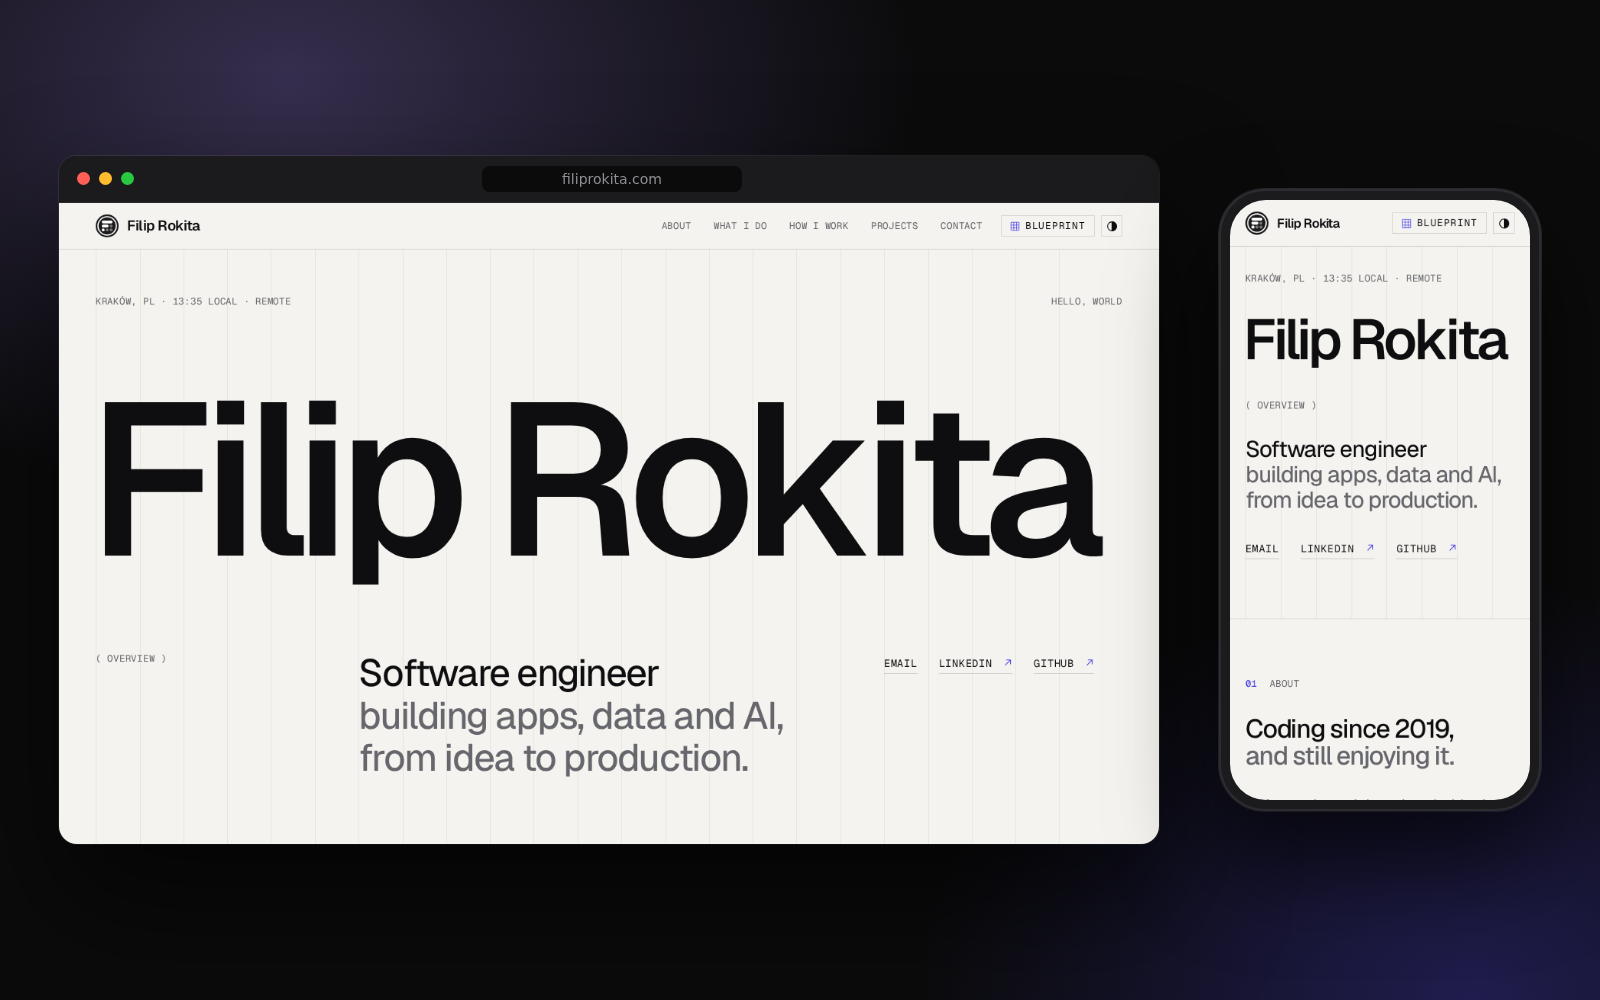
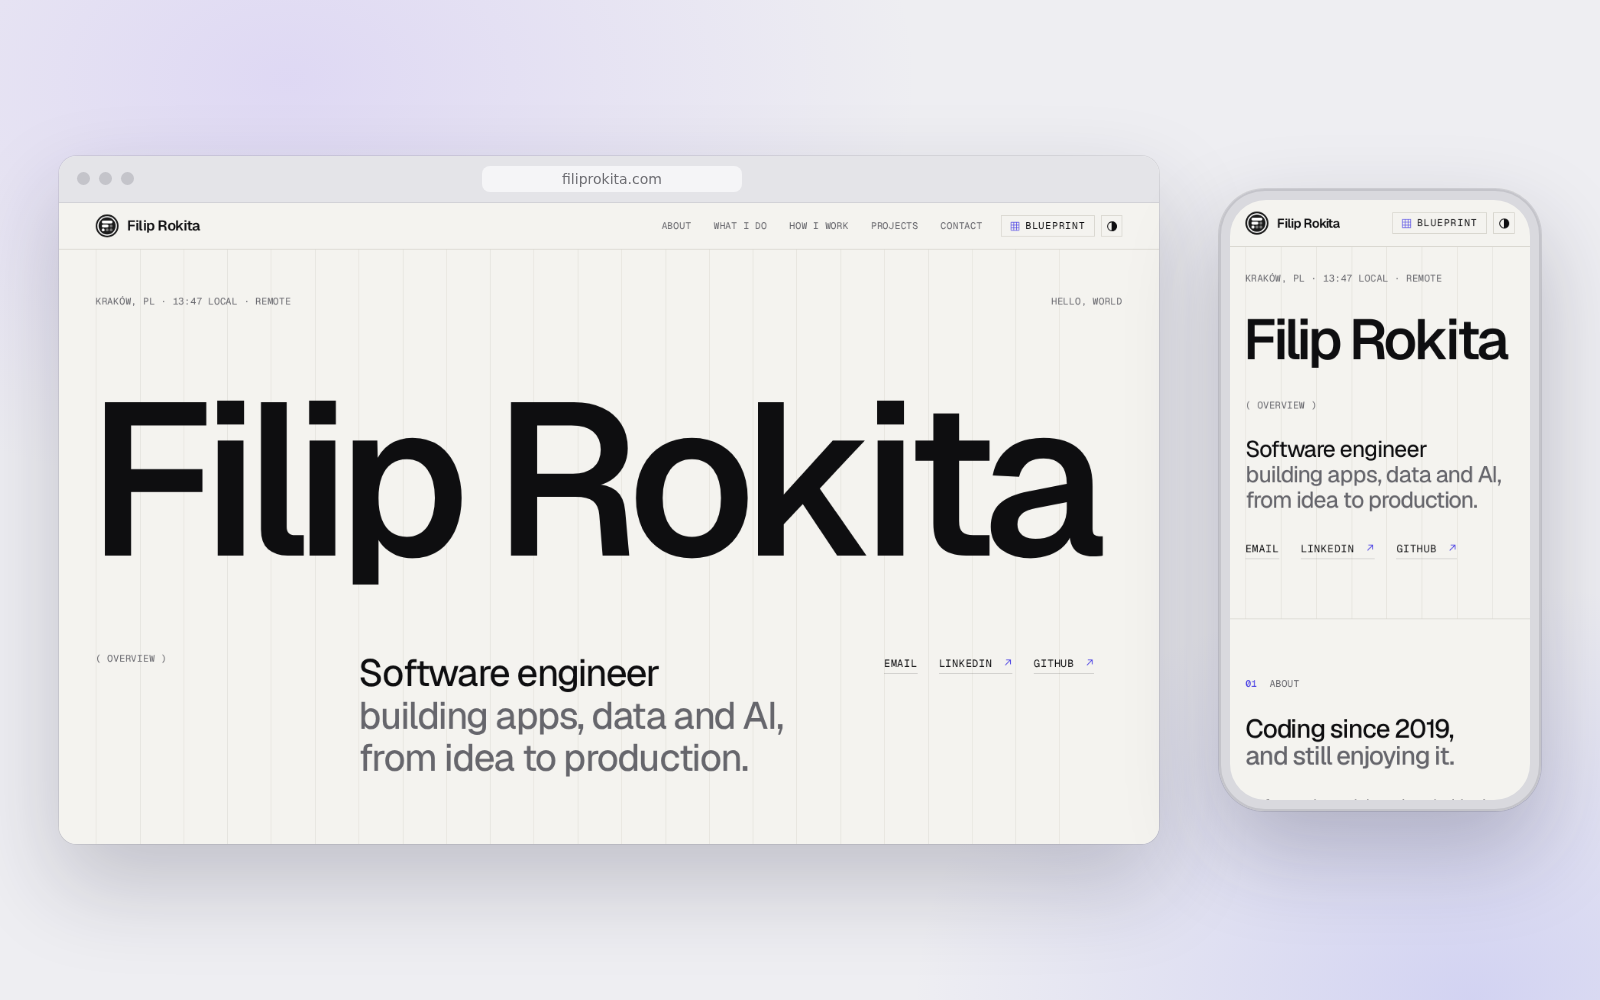
Light README stage and a bottom strip for Safari's bar in blueprint mode (#30)
* Light stage for the light README screenshot

* Blueprint: a fixed strip at the bottom edge for Safari's bar color

Safari on iOS 26 ignores theme-color and takes its bar color from a fixed element at the edge of the screen. A strip of the sheet's color keeps the bar steady while scrolling and after the drawer closes.

* Blueprint mode is always dark and gives the visitor's theme back when it ends

* Theme toggle label follows the theme attribute; keep an unsaved theme choice through blueprint mode

* Blueprint sheet keeps its size when Safari's address bar moves; navy fills the exposed bottom

diff --git a/src/blueprint/sheet.ts b/src/blueprint/sheet.ts
@@ -139,7 +139,9 @@ function titleBlock() {
 /** The sheet border with its lettered and numbered zones. */
 function drawFrame(frame: SVGSVGElement) {
   const width = innerWidth;
-  const height = innerHeight;
+  // The sheet is as tall as the small viewport (address bar shown), so it keeps its size when
+  // Safari's bars come and go. CSS gives the frame that height.
+  const height = frame.getBoundingClientRect().height;
   const columns = Math.max(4, Math.round(width / ZONE));
   const rows = Math.max(3, Math.round(height / ZONE));
   frame.setAttribute('viewBox', `0 0 ${width} ${height}`);
@@ -222,9 +224,22 @@ export function mountSheet(signal: AbortSignal) {
     focusable: 'false',
   });
   const title = titleBlock();
-  document.body.append(frame, title);
+  // A fixed strip of the sheet's color at the bottom edge. Safari on iPhone paints its bars from
+  // such an element, so the bar stays one color whatever scrolls or opens above it.
+  const strip = document.createElement('div');
+  strip.className = 'bp-edge';
+  strip.setAttribute('data-blueprint-ui', '');
+  strip.setAttribute('aria-hidden', 'true');
+  document.body.append(strip, frame, title);
 
-  const draw = () => drawFrame(frame);
+  // The sheet is drawn again only when its own size changed, not when the address bar moves.
+  let size = '';
+  const draw = () => {
+    const next = `${innerWidth}x${frame.getBoundingClientRect().height}`;
+    if (next === size) return;
+    size = next;
+    drawFrame(frame);
+  };
   const compact = () => {
     title.toggleAttribute('data-compact', scrollY > COMPACT_AFTER);
     const left =
@@ -239,6 +254,7 @@ export function mountSheet(signal: AbortSignal) {
   signal.addEventListener(
     'abort',
     () => {
+      strip.remove();
       frame.remove();
       title.remove();
     },

diff --git a/e2e/blueprint.spec.ts b/e2e/blueprint.spec.ts
@@ -86,6 +86,28 @@ test.describe('blueprint mode', () => {
     await expect.poll(colors).not.toContain('#0a3577');
   });
 
+  test('the mode is dark and gives the visitor theme back when it is off', async ({
+    page,
+  }) => {
+    await page.emulateMedia({ colorScheme: 'light' });
+    await page.goto('/');
+    const html = page.locator('html');
+    await expect(html).not.toHaveAttribute('data-theme');
+    await toggleBlueprint(page);
+    await expect(html).toHaveAttribute('data-theme', 'dark');
+    // Nothing is saved while the mode forces dark.
+    expect(await page.evaluate(() => localStorage.getItem('theme'))).toBeNull();
+    await toggleBlueprint(page);
+    await expect(html).not.toHaveAttribute('data-theme');
+
+    await page.evaluate(() => localStorage.setItem('theme', 'light'));
+    await page.reload();
+    await toggleBlueprint(page);
+    await expect(html).toHaveAttribute('data-theme', 'dark');
+    await toggleBlueprint(page);
+    await expect(html).toHaveAttribute('data-theme', 'light');
+  });
+
   test('the drawing is not drawn again when only the height of the window changes', async ({
     page,
   }, testInfo) => {
@@ -140,6 +162,7 @@ test.describe('blueprint mode', () => {
     await expect(page.locator('.bp-frame')).toBeVisible();
     await expect(page.locator('.bp-title')).toBeVisible();
     await expect(page.locator('.bp-title')).toContainText('Filip Rokita');
+    await expect(page.locator('.bp-edge')).toHaveCount(1);
     await expect(page.locator('.bp-layer')).toHaveCount(1);
 
     await toggleBlueprint(page);

diff --git a/design/preview.html b/design/preview.html
@@ -96,9 +96,48 @@
         width: 100%;
         border-radius: 36px;
       }
+      /* The light variant: a light stage and light window chrome. */
+      body.light {
+        background:
+          radial-gradient(
+            900px 600px at 18% 8%,
+            rgba(167, 139, 250, 0.22),
+            transparent 70%
+          ),
+          radial-gradient(
+            800px 600px at 92% 100%,
+            rgba(99, 102, 241, 0.2),
+            transparent 70%
+          ),
+          #eeeef2;
+      }
+      .light .window {
+        background: #f5f5f7;
+        box-shadow:
+          0 40px 90px rgba(30, 30, 60, 0.22),
+          0 0 0 1px rgba(0, 0, 0, 0.08);
+      }
+      .light .bar {
+        background: #e4e4e8;
+        border-bottom-color: #d2d2d7;
+      }
+      .light .bar i {
+        background: #c4c4ca;
+      }
+      .light .url {
+        background: #f5f5f7;
+        color: #6e6e73;
+      }
+      .light .phone {
+        background: #d9d9de;
+        box-shadow:
+          0 40px 90px rgba(30, 30, 60, 0.25),
+          0 0 0 1px rgba(0, 0, 0, 0.1),
+          inset 0 0 0 2px #c4c4ca;
+      }
     </style>
   </head>
-  <body>
+  <body class="{{SCHEME}}">
     <div class="window">
       <div class="bar">
         <i></i><i></i><i></i><span class="url">filiprokita.com</span>

diff --git a/src/blueprint/dark.ts b/src/blueprint/dark.ts
@@ -1,0 +1,37 @@
+/**
+ * Blueprint mode is always dark, whatever the visitor uses. The theme attribute is set to dark for
+ * the session only and nothing is saved, so when the mode ends (or the page is reloaded) the
+ * visitor's own theme is back: the saved choice, or the system one when there is none.
+ */
+const root = document.documentElement;
+
+type Theme = 'light' | 'dark';
+
+const saved = (): Theme | null => {
+  try {
+    const theme = localStorage.getItem('theme');
+    return theme === 'light' || theme === 'dark' ? theme : null;
+  } catch {
+    return null;
+  }
+};
+
+/** The theme the visitor has, which is not always the one on the page while the mode is on. */
+export const visitorTheme = (): Theme =>
+  saved() ??
+  (matchMedia('(prefers-color-scheme: light)').matches ? 'light' : 'dark');
+
+export function lockDark(signal: AbortSignal) {
+  // Kept for when storage is blocked: then the theme on the page is all there is.
+  const before = root.dataset.theme;
+  root.dataset.theme = 'dark';
+  signal.addEventListener(
+    'abort',
+    () => {
+      const theme = saved() ?? before;
+      if (theme) root.dataset.theme = theme;
+      else delete root.dataset.theme;
+    },
+    { once: true },
+  );
+}

diff --git a/src/styles/blueprint.css b/src/styles/blueprint.css
@@ -169,10 +169,25 @@
 
   .bp-frame {
     position: fixed;
-    inset: 0;
+    top: 0;
+    left: 0;
     z-index: 90;
     width: 100%;
-    height: 100%;
+    /* The small viewport: the sheet does not resize when the address bar comes and goes. */
+    height: 100svh;
+    pointer-events: none;
+  }
+
+  .bp-edge {
+    position: fixed;
+    /* From just above the sheet's bottom edge to the bottom of the screen: at least 8 px, and
+       the navy fills what shows when the address bar slides away. */
+    top: calc(100svh - 8px);
+    right: 0;
+    bottom: 0;
+    left: 0;
+    z-index: 89;
+    background: var(--bg);
     pointer-events: none;
   }
 
@@ -204,7 +219,8 @@
   .bp-title {
     position: fixed;
     right: 30px;
-    bottom: 30px;
+    /* Stays on the sheet, not on the screen, when the address bar slides away. */
+    bottom: calc(30px + 100dvh - 100svh);
     z-index: 100;
     width: 330px;
     border: 1px solid var(--accent);
@@ -288,7 +304,7 @@
     .bp-title,
     .bp-title[data-compact] {
       right: 26px;
-      bottom: 26px;
+      bottom: calc(26px + 100dvh - 100svh);
       left: 26px;
       width: auto;
     }

diff --git a/src/blueprint/tokens.ts b/src/blueprint/tokens.ts
@@ -1,4 +1,5 @@
 import tokensCss from '../styles/tokens.css?raw';
+import { visitorTheme } from './dark';
 
 export interface SiteColors {
   bg: string;
@@ -16,15 +17,9 @@ const PAIRS = new Map(
   ].map(([, name, light, dark]) => [name, { light, dark }] as const),
 );
 
-const currentTheme = (): 'light' | 'dark' => {
-  const chosen = document.documentElement.dataset.theme;
-  if (chosen === 'light' || chosen === 'dark') return chosen;
-  return matchMedia('(prefers-color-scheme: light)').matches ? 'light' : 'dark';
-};
-
 /** The colors the site really uses in the theme the visitor has, for the palette on the drawing. */
 export function siteColors(): SiteColors {
-  const theme = currentTheme();
+  const theme = visitorTheme();
   const pick = (name: string) => PAIRS.get(name)?.[theme] ?? '#000000';
   return {
     bg: pick('bg'),

diff --git a/src/blueprint/mode.ts b/src/blueprint/mode.ts
@@ -7,6 +7,7 @@
  */
 import blueprintCss from '../styles/blueprint.css?inline';
 import { tintBrowserBar } from './browser-bar';
+import { lockDark } from './dark';
 import { mountDrawer } from './drawer';
 import { mountInspector } from './inspector';
 import { mountLayer } from './layer';
@@ -59,6 +60,8 @@ const start = () => {
   loadStyles();
   session = new AbortController();
   root.setAttribute(ATTRIBUTE, '');
+  // First, so on the way out the theme is back before the browser bar looks at it.
+  lockDark(session.signal);
   tintBrowserBar(session.signal);
   mountSheet(session.signal);
   mountLayer(session.signal);

diff --git a/docs/blueprint.md b/docs/blueprint.md
@@ -15,7 +15,11 @@ site, and it is made to prove the claim behind it: the code is as good as the pa
 - A mouse also gets a crosshair with a readout of the element under it. Touch gets neither the
   crosshair nor navigation: a tap opens the code.
 - The browser bar (`theme-color`) turns blueprint blue too, and goes back to the theme's color
-  when the mode is off.
+  when the mode is off. Safari on iPhone ignores `theme-color`, so a fixed 8 px strip of the
+  sheet's color sits at the bottom edge, where Safari takes its bar color from. The sheet is as tall as the small
+  viewport (`100svh`) and is not drawn again when the address bar moves. The navy fills what shows
+  when the bar slides away, and the title block stays on the sheet.
+- The mode is always dark, whatever theme the visitor has. Nothing is saved while it forces dark, so turning it off (or a reload) gives back the saved theme, or the system one. A theme chosen with the toggle while the mode is on is saved and kept.
 - Turning it off puts the page back exactly as it was.
 
 ## How it is built
@@ -39,6 +43,7 @@ flowchart LR
 | Module | What it does |
 | :--- | :--- |
 | `src/components/BlueprintChip.astro` | The entry point: the chip, its teaser and the loader. The hint and the corner animation are CSS, driven by two attributes |
+| `src/blueprint/dark.ts` | Sets the theme to dark for the session and gives the visitor's theme back at the end |
 | `src/blueprint/mode.ts` | Turns the mode on and off with the circle reveal, owns the session (an `AbortController`), and shows a glimpse (`peek`) |
 | `src/blueprint/layer.ts` | The drawing: one SVG as big as the page, built again when the page changes size (not when only the window's height changes, as on a phone when the address bar moves) |
 | `src/blueprint/sheet.ts` | The sheet border, the title block (a chip after the first screen) and the stamp |
